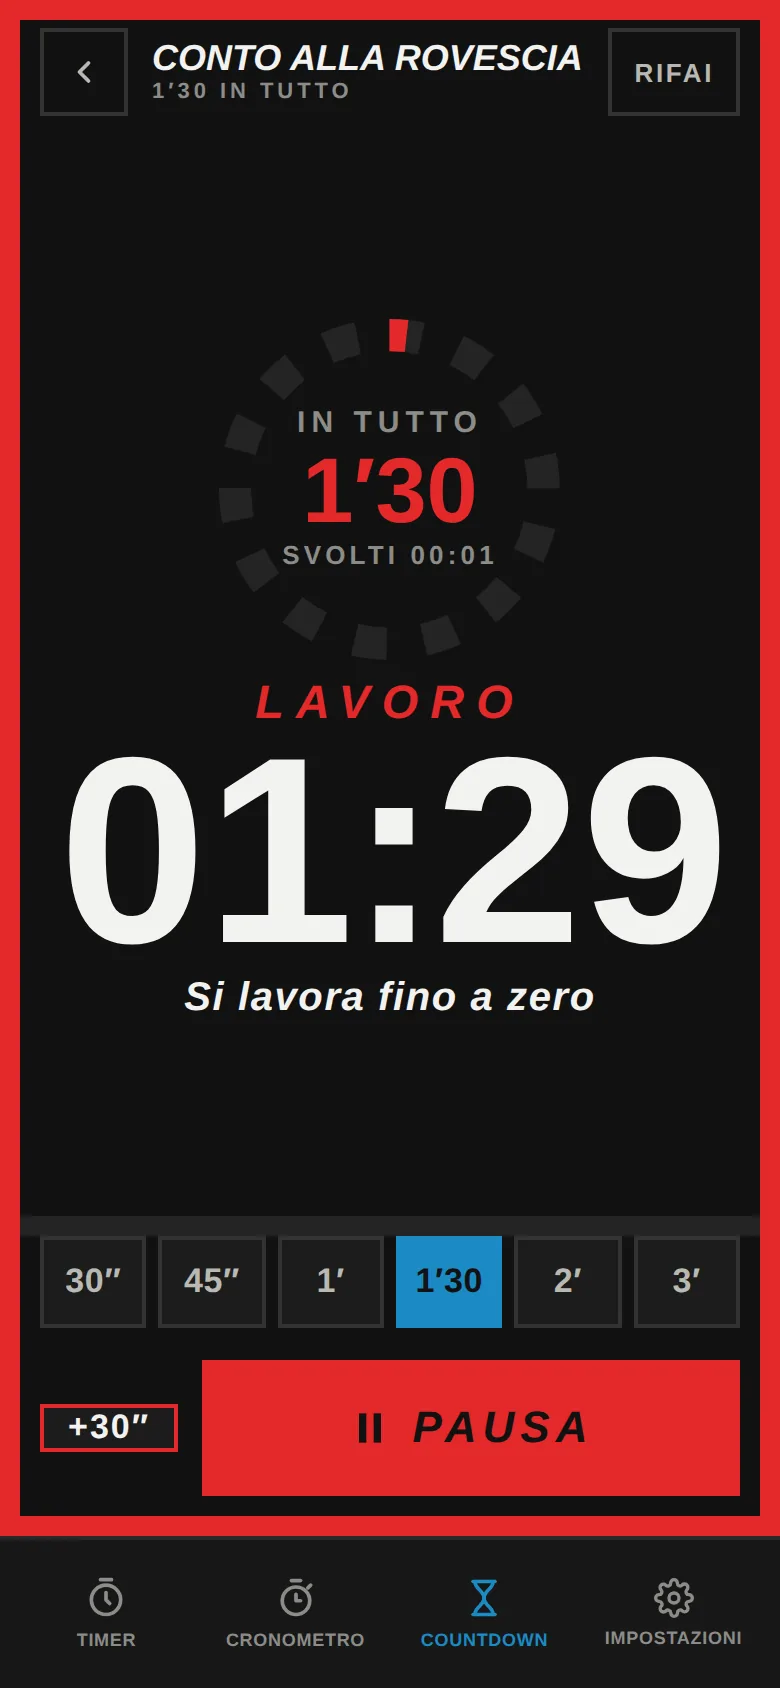
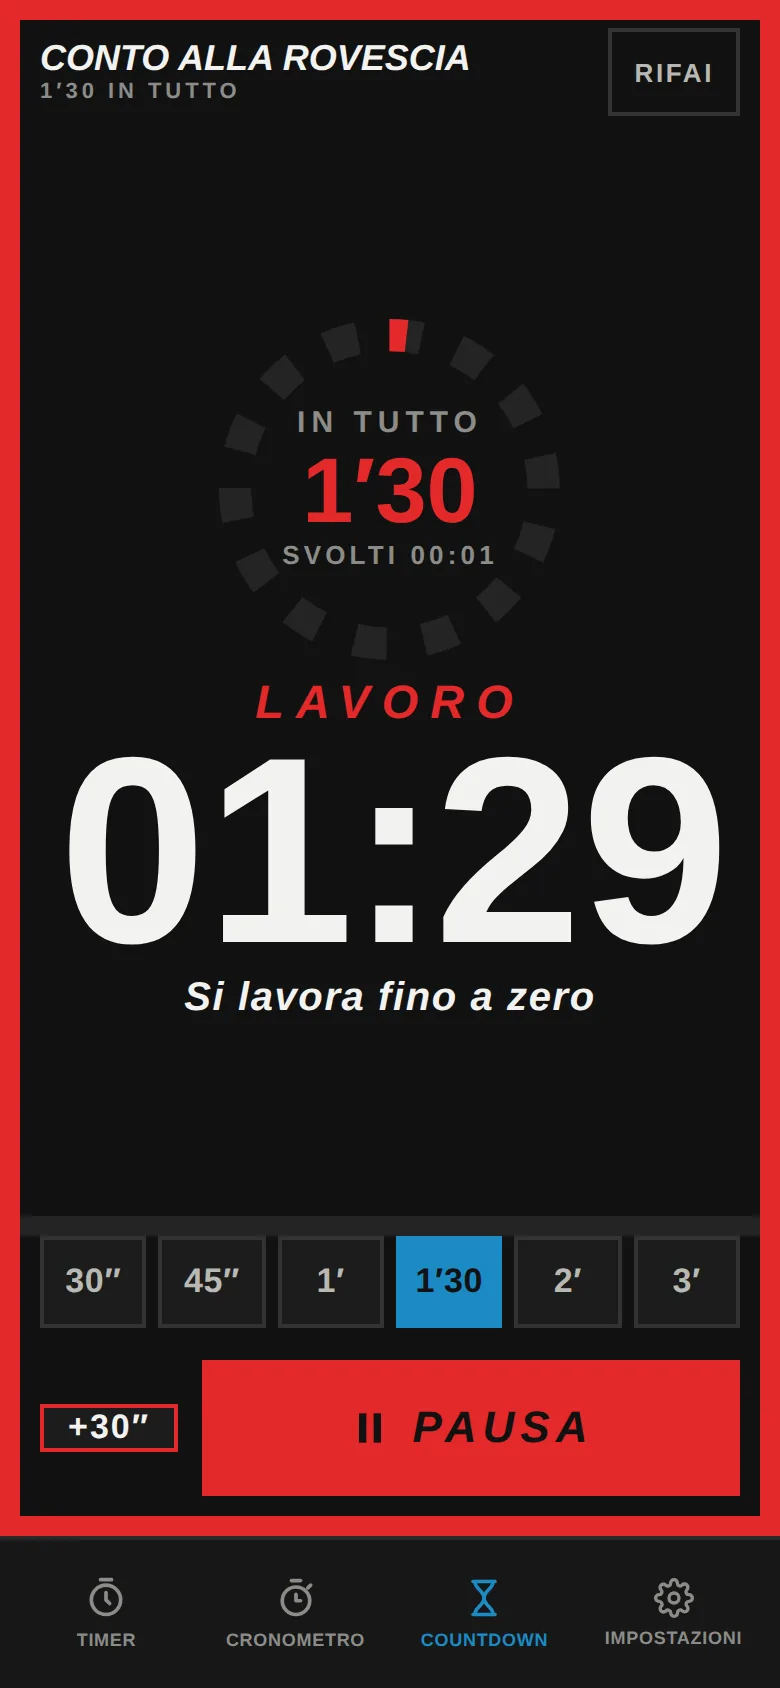
Il countdown si apre già pronto, e Maurizio fa i complimenti allo scadere
**Via la schermata delle durate.** Erano due cose sbagliate insieme. Una
schermata che serve solo a scegliere un numero è un passaggio in più fra te e
lo strumento, e le sei durate stanno già dentro il conto, nella fila sotto le
cifre. E toccarne una faceva partire il tempo lì per lì, che non è mai quello
che si vuole: si sceglie la durata guardando lo schermo, ma il via lo si dà
guardando la sala. Adesso la scheda apre direttamente sul conto, fermo su
PRONTO, scegliere una durata la carica e basta, e a far partire è AVVIA. Vale
anche a conto iniziato: un'altra durata ricarica da capo e rimette in pronto.

Sparita la schermata, sparisce anche la freccia che ci tornava: non c'è più un
posto dove tornare. Con lei se ne vanno le regole delle tessere, e tre classi
che erano già morte da prima.

**Maurizio fa i complimenti.** Quando il conto arriva a zero e la modalità è
accesa, compare con una frase — «Bravi, così si fa», «Questo sì che era un
tempo» — al posto dell'anello e non delle cifre, che restano a dire 00:00. È
lo stesso posto e la stessa misura che occupa quando lo becchi a sbagliare il
conto nel timer degli allenamenti, quindi sotto non si sposta un pixel.
Illustrazione e frase si estraggono una volta sola allo scadere, altrimenti
cambierebbero a ogni battito; con la modalità spenta non compare niente e
l'anello resta.

Verificato in Chromium: il conto si apre su PRONTO a 00:30 con AVVIA, scegliere
[…]

Changed region(s): [[0.0308, 0.0, 0.7385, 0.0616]]

diff --git a/src/components/AlVolo.tsx b/src/components/AlVolo.tsx
@@ -3,8 +3,10 @@ import type { Settings } from '../types'
 import { Cues, speak } from '../lib/audio'
 import { useWakeLock } from '../lib/wakeLock'
 import { pad } from '../lib/format'
-import { Back, Pause, Play } from './Icons'
+import { Pause, Play } from './Icons'
 import { DentroAnello, Digits, Ring } from './Quadrante'
+import { FINALE, a_caso } from '../lib/adesivi'
+import { FINALE_LINES } from '../lib/engine'
 
 /**
  * I due strumenti che non hanno bisogno di un allenamento scritto.
@@ -177,57 +179,28 @@ export function CronometroScreen({ settings }: { settings: Settings }) {
  * ------------------------------------------------------------------ */
 
 /**
- * La scheda: prima le durate, poi il conto.
+ * La scheda apre direttamente sul conto, fermo.
  *
- * Restare nella stessa scheda invece di aprire una schermata sopra è ciò che
- * permette di tornare alle durate senza chiudere niente, che è il gesto che si
- * fa quando la sala chiede un altro mezzo minuto.
+ * Prima c'era una schermata di sole durate, e toccarne una faceva partire il
+ * conto: due cose sbagliate insieme. Una schermata che serve solo a scegliere
+ * un numero è un passaggio in più fra te e lo strumento — le sei durate stanno
+ * già dentro il conto, sotto le cifre — e far partire il tempo mentre si guarda
+ * lo schermo non è mai quello che si vuole: si sceglie la durata, si guarda la
+ * sala, e si dà il via quando la sala è pronta. Quindi scegliere prepara e
+ * basta; a far partire è AVVIA.
  */
 export function CountdownTab({ settings }: { settings: Settings }) {
-  const [scelta, setScelta] = useState<number | null>(null)
-  if (scelta === null) return <ScegliDurata onScegli={setScelta} />
-  return <ContaAllaRovescia key={scelta} secondi={scelta} settings={settings} onIndietro={() => setScelta(null)} />
+  return <ContaAllaRovescia settings={settings} />
 }
 
-function ScegliDurata({ onScegli }: { onScegli: (secondi: number) => void }) {
-  return (
-    <div className="scroll scelta-durate">
-      <p className="pad" style={{ fontSize: 14, lineHeight: 1.45, color: 'var(--dim)', margin: '0 0 2px' }}>
-        Un solo blocco di lavoro, della durata che scegli. Parte al tocco, senza passare dall'editor, e
-        la durata si cambia anche a conto già iniziato.
-      </p>
-      <div className="pad" style={{ paddingTop: 14, paddingBottom: 24 }}>
-        <div className="volo-griglia">
-          {DURATE_AL_VOLO.map((s) => (
-            <button
-              key={s}
-              className="volo-tessera"
-              onClick={() => onScegli(s)}
-              aria-label={`Conto alla rovescia di ${s} secondi`}
-            >
-              <span className="num volo-tessera-n">{etichettaDurata(s)}</span>
-            </button>
-          ))}
-        </div>
-      </div>
-    </div>
-  )
-}
-
-function ContaAllaRovescia({
-  secondi,
-  settings,
-  onIndietro,
-}: {
-  secondi: number
-  settings: Settings
-  onIndietro: () => void
-}) {
-  const [durata, setDurata] = useState(secondi)
-  // Parte subito: chi tocca «1′30» ha già dato il via a voce.
-  const [fine, setFine] = useState<number | null>(() => performance.now() + secondi * 1000)
-  const [restoInPausa, setRestoInPausa] = useState(secondi * 1000)
+function ContaAllaRovescia({ settings }: { settings: Settings }) {
+  const [durata, setDurata] = useState(DURATE_AL_VOLO[0])
+  const [fine, setFine] = useState<number | null>(null)
+  const [restoInPausa, setRestoInPausa] = useState(DURATE_AL_VOLO[0] * 1000)
   const [ora, setOra] = useState(() => performance.now())
+  /* Estratti allo scadere e tenuti da parte: se li si scegliesse al volo dentro
+     il render, illustrazione e frase cambierebbero a ogni battito. */
+  const [complimento, setComplimento] = useState<{ src: string; frase: string } | null>(null)
   const cues = useRef(new Cues())
   const ultimoBip = useRef<number | null>(null)
   const finito = useRef(false)
@@ -255,6 +228,7 @@ function ContaAllaRovescia({
     }
     if (resto <= 0 && !finito.current) {
       finito.current = true
+      setComplimento({ src: a_caso(FINALE), frase: a_caso(FINALE_LINES) })
       cues.current.finish()
       if (settings.voice) speak('Tempo', settings.volume, settings.voiceURI)
       setFine(null)
@@ -264,9 +238,21 @@ function ContaAllaRovescia({
 
   useWakeLock(settings.keepAwake && inCorso)
 
+  /* Scegliere una durata la carica e lascia il conto fermo: il via lo dà AVVIA,
+     quando la sala è pronta e non quando il dito tocca il numero. */
+  const prepara = (da: number) => {
+    finito.current = false
+    ultimoBip.current = null
+    setComplimento(null)
+    setDurata(da)
+    setRestoInPausa(da * 1000)
+    setFine(null)
+  }
+
   const riparti = (da: number) => {
     finito.current = false
     ultimoBip.current = null
+    setComplimento(null)
     setDurata(da)
     setRestoInPausa(da * 1000)
     setFine(performance.now() + da * 1000)
@@ -287,6 +273,7 @@ function ContaAllaRovescia({
   const allunga = () => {
     finito.current = false
     ultimoBip.current = null
+    setComplimento(null)
     setDurata((d) => d + 30)
     if (fine === null) setRestoInPausa((r) => r + 30000)
     else setFine((f) => (f ?? performance.now()) + 30000)
@@ -297,6 +284,10 @@ function ContaAllaRovescia({
      verde, che in quest'app vuol dire finito — è lo stesso verde con cui il
      timer degli allenamenti scrive COMPLETATO. Il cambio di colore allo zero
      resta, ribaltato: da rosso a verde. */
+  /* Caricato e mai fatto partire: non è una pausa, è un timer pronto — e il
+     tasto grande deve dire AVVIA, non RIPRENDI. */
+  const intatto = fine === null && !aZero && restoInPausa === durata * 1000
+
   const tinta = aZero ? 'var(--verde)' : 'var(--rosso)'
   const mostrato = Math.ceil(resto / 1000)
   const avanzamento = durata > 0 ? Math.min(1, svolti / (durata * 1000)) : 0
@@ -304,9 +295,6 @@ function ContaAllaRovescia({
   return (
     <div className="timer" data-attrezzo="true" style={{ ['--state' as string]: tinta }}>
       <div className="row timer-top">
-        <button className="icon-btn" onClick={onIndietro} aria-label="Torna alle durate">
-          <Back />
-        </button>
         <div className="stack grow" style={{ gap: 1, minWidth: 0 }}>
           <span className="ob titolo-timer">CONTO ALLA ROVESCIA</span>
           <span className="sottotitolo-timer" style={{ fontSize: 11, fontWeight: 600, letterSpacing: '0.18em', color: 'var(--dim)' }}>
@@ -321,20 +309,35 @@ function ContaAllaRovescia({
       </div>
 
       <div className="timer-main">
-        <div className="anello">
-          <Ring progress={avanzamento} color={tinta} />
-          <DentroAnello
-            etichetta="IN TUTTO"
-            numero={etichettaDurata(durata)}
-            sotto={`SVOLTI ${minutiSecondi(svolti)}`}
-            colore={tinta}
-          />
-        </div>
+        {/* Allo zero Maurizio si prende il posto dell'anello — non quello delle
+            cifre, che restano il contenuto — e fa i complimenti a chi ha appena
+            finito. È lo stesso posto e la stessa misura che occupa quando lo
+            becchi a sbagliare il conto nel timer degli allenamenti. */}
+        {aZero && complimento && settings.coach !== 'off' ? (
+          <div className="beccato">
+            <img src={complimento.src} alt="" />
+            <span className="beccato-frase">{complimento.frase}</span>
+          </div>
+        ) : (
+          <div className="anello">
+            <Ring progress={avanzamento} color={tinta} />
+            <DentroAnello
+              etichetta="IN TUTTO"
+              numero={etichettaDurata(durata)}
+              sotto={`SVOLTI ${minutiSecondi(svolti)}`}
+              colore={tinta}
+            />
+          </div>
+        )}
 
         <div className="timer-col" style={{ alignItems: 'center', gap: 4 }}>
-          <span className="state-label">{aZero ? 'TEMPO' : inCorso ? 'LAVORO' : 'IN PAUSA'}</span>
+          <span className="state-label">
+            {aZero ? 'TEMPO' : inCorso ? 'LAVORO' : intatto ? 'PRONTO' : 'IN PAUSA'}
+          </span>
           <Digits value={`${pad(Math.floor(mostrato / 60))}:${pad(mostrato % 60)}`} />
-          <span className="exercise">{aZero ? 'Tempo scaduto' : 'Si lavora fino a zero'}</span>
+          <span className="exercise">
+            {aZero ? 'Tempo scaduto' : intatto ? 'Scegli la durata, poi AVVIA' : 'Si lavora fino a zero'}
+          </span>
         </div>
       </div>
 
@@ -346,7 +349,7 @@ function ContaAllaRovescia({
           risponde meglio o peggio del previsto. */}
       <div className="al-volo-scelte">
         {DURATE_AL_VOLO.map((s) => (
-          <button key={s} className="chip" data-on={durata === s} onClick={() => riparti(s)}>
+          <button key={s} className="chip" data-on={durata === s} onClick={() => prepara(s)}>
             {etichettaDurata(s)}
           </button>
         ))}
@@ -358,7 +361,9 @@ function ContaAllaRovescia({
         </button>
         <button className="btn grow tasto-avvia" style={{ background: tinta, color: '#121212' }} onClick={pausaOAvvia}>
           {inCorso ? <Pause size={22} /> : <Play size={22} />}
-          <span style={{ fontSize: 22 }}>{inCorso ? 'PAUSA' : aZero ? 'RIFAI' : 'RIPRENDI'}</span>
+          <span style={{ fontSize: 22 }}>
+            {inCorso ? 'PAUSA' : aZero ? 'RIFAI' : intatto ? 'AVVIA' : 'RIPRENDI'}
+          </span>
         </button>
       </div>
     </div>

diff --git a/public/guida.html b/public/guida.html
@@ -362,7 +362,7 @@
     </p>
     <div class="riga-versione">
       <span>Officine Dello Sport · Collegno</span>
-      <span>ODS Timer 1.1.1</span>
+      <span>ODS Timer 1.2.0</span>
       <span>nalbertini.github.io/Timer-</span>
     </div>
   </header>
@@ -461,7 +461,7 @@
             <tbody>
               <tr><td class="nome-schema">TIMER</td><td>I tuoi allenamenti. Da qui si avvia, si modifica, si duplica, si manda, si elimina.</td></tr>
               <tr><td class="nome-schema">CRONOMETRO</td><td>Conta in salita, con i centesimi e i giri. Per un randori, una navetta, un test.</td></tr>
-              <tr><td class="nome-schema">COUNTDOWN</td><td>Sei durate che partono al tocco: un blocco di lavoro lungo quanto dici.</td></tr>
+              <tr><td class="nome-schema">COUNTDOWN</td><td>Un blocco di lavoro lungo quanto dici: scegli la durata, poi AVVIA.</td></tr>
               <tr><td class="nome-schema">IMPOSTAZIONI</td><td>Maurizio, suoni, voce, schermo, libreria esercizi, copie di sicurezza, storico, versione, e questa guida.</td></tr>
             </tbody>
           </table>
@@ -497,25 +497,27 @@
 
         <h3>Countdown</h3>
         <p>
-          Sei durate — <strong>30″, 45″, 1′, 1′30, 2′, 3′</strong> — che partono al tocco. È
+          La scheda si apre <strong>già sul conto, fermo</strong>: niente schermata di mezzo da attraversare. Le sei
+          durate — <strong>30″, 45″, 1′, 1′30, 2′, 3′</strong> — sono la fila sotto le cifre. È
           <strong>un solo blocco di lavoro</strong> della durata che scegli: non un recupero, ma il pezzo di lezione
           che dura tanto quanto hai detto. La risposta a «novanta secondi di plank», che prima costringeva a
           creare e salvare un timer apposta.
         </p>
         <ul>
-          <li>La freccia in alto a sinistra torna alle durate senza chiudere niente: <strong>si cambia idea a conto già iniziato</strong>, perché la sala risponde meglio o peggio del previsto.</li>
-          <li>C'è il <span class="tasto">+30″</span> del timer grande, e <span class="tasto">RIFAI</span> per ripartire da capo.</li>
+          <li><strong>Scegliere una durata non fa partire niente</strong>: la carica e basta, e il conto resta fermo su PRONTO. A dare il via è <span class="tasto">AVVIA</span>, quando guardi la sala e non lo schermo. Vale anche a conto già iniziato: toccare un'altra durata ricarica da capo e rimette in pronto.</li>
+          <li>C'è il <span class="tasto">+30″</span> del timer grande, e <span class="tasto">RIFAI</span> in alto a destra per ricominciare la stessa durata.</li>
           <li>Mentre gira la cornice è <strong>rossa</strong>, come il lavoro del timer degli allenamenti, e la scritta dice LAVORO. Allo zero passa al <strong>verde</strong> — il verde con cui l'app dice «finito» — con la scritta TEMPO e il segnale di fine: si vede da tutta la sala anche senza sentire niente.</li>
+          <li>Allo zero, se la <strong>modalità Maurizio</strong> è accesa, compare lui con una frase di complimenti: <em>«Bravi, così si fa»</em>, <em>«Questo sì che era un tempo»</em>. Prende il posto dell'anello e non quello delle cifre, che restano lì a dire 00:00. Con la modalità spenta non compare niente.</li>
         </ul>
 
         <div class="scatti">
     <figure>
-      <img src="guida/countdown-durate.webp" alt="La scheda COUNTDOWN con le sei durate" width="820" height="1688" loading="lazy">
-      <figcaption>Sei durate da premere senza guardare.</figcaption>
+      <img src="guida/countdown-pronto.webp" alt="La scheda COUNTDOWN appena aperta: conto fermo su PRONTO" width="820" height="1688" loading="lazy">
+      <figcaption>Appena aperta: il conto è già lì, fermo su PRONTO, con le sei durate sotto le cifre.</figcaption>
     </figure>
     <figure>
       <img src="guida/countdown.webp" alt="Conto alla rovescia in corso, cornice rossa, stato LAVORO" width="820" height="1688" loading="lazy">
-      <figcaption>Il conto in corsa: cornice rossa perché è lavoro, la freccia in alto torna alle durate, RIFAI ricomincia.</figcaption>
+      <figcaption>In corsa: cornice rossa perché è lavoro, e RIFAI per ricominciare.</figcaption>
     </figure>
         </div>
 
@@ -894,7 +896,8 @@
 
         <p>
           <strong>Le illustrazioni</strong> sono diciotto, tutte di Maurizio. Al centro con la frase quando perde il
-          conto o si inventa un giro, una a fine allenamento, e piccole in un angolo sugli stati fermi —
+          conto o si inventa un giro, una a fine allenamento, una con i complimenti quando scade il conto alla
+          rovescia, e piccole in un angolo sugli stati fermi —
           preparazione, recupero, riposo, defaticamento. Durante il lavoro nessuna, di proposito: sotto
           sforzo lo schermo deve dire solo il tempo.
         </p>

diff --git a/src/styles.css b/src/styles.css
@@ -442,35 +442,6 @@ input, textarea { font: inherit; color: inherit; }
 
 /* ---------- gli attrezzi al volo: cronometro e conto alla rovescia ---------- */
 
-/* Le sei durate come tessere: due righe da tre, grandi abbastanza da premerle
-   senza guardare mentre si parla alla sala. */
-.volo-griglia { display: grid; grid-template-columns: repeat(3, minmax(0, 1fr)); gap: 10px; }
-.volo-tessera {
-  min-height: 84px;
-  display: flex; align-items: center; justify-content: center;
-  border: 2px solid var(--line); background: var(--surface);
-  transition: border-color 120ms, background 120ms;
-}
-.volo-tessera:hover { border-color: var(--verde); }
-.volo-tessera:active { background: var(--surface-2); }
-.volo-tessera-n {
-  font-size: 30px; font-weight: 700; letter-spacing: 0.01em; color: var(--text);
-}
-/* Senza l'intestazione dell'app sopra, la scelta delle durate si tiene da sé
-   lo spazio della barra di stato. */
-.scelta-durate { padding-top: calc(var(--safe-t) + 18px); }
-.scelta-durate .volo-griglia { row-gap: 12px; }
-.volo-crono { gap: 14px; padding: 0 14px; min-height: 72px; text-align: left; color: var(--text); }
-.volo-crono:hover { border-color: var(--blu); }
-@media (min-width: 560px) {
-  .volo-griglia { grid-template-columns: repeat(6, minmax(0, 1fr)); }
-}
-
-.al-volo { gap: 12px; padding: 12px 14px 14px; }
-.al-volo-crono {
-  min-height: 40px; padding: 0 14px;
-  font-family: var(--cond); font-size: 15px; font-weight: 700; letter-spacing: 0.1em;
-}
 /* Sei durate in una griglia che si divide lo spazio invece di scorrere: sono
    sei tasti che si premono senza guardare, e uno fuori schermo non esiste. */
 .al-volo-scelte {
@@ -498,7 +469,10 @@ input, textarea { font: inherit; color: inherit; }
   .timer[data-attrezzo='true'] .exercise { display: none; }
 }
 @media (max-height: 600px) {
-  .timer[data-attrezzo='true'] .anello { display: none; }
+  /* Anche i complimenti di Maurizio: occupano il posto dell'anello, quindi
+     dove l'anello non ci sta non ci stanno nemmeno loro. */
+  .timer[data-attrezzo='true'] .anello,
+  .timer[data-attrezzo='true'] .beccato { display: none; }
 }
 
 /* Telefono girato di lato: trecentosessanta pixel in tutto, un centinaio dei

diff --git a/src/lib/engine.ts b/src/lib/engine.ts
@@ -298,6 +298,20 @@ export const EXTRA_LINES = [
   'Dai, l’ultimo giro. Questo sì',
 ]
 
+/**
+ * I complimenti di fine tempo: quando un conto arriva a zero e la modalità è
+ * accesa, Maurizio compare con una di queste. Sono corte di proposito — vanno
+ * lette in un'occhiata da chi ha appena finito e sta ancora respirando.
+ */
+export const FINALE_LINES = [
+  'Bravi, così si fa',
+  'Ottimo lavoro',
+  'Visto? Ce l’avete fatta',
+  'Questo sì che era un tempo',
+  'Grandi, tutti quanti',
+  'E anche questo è andato',
+]
+
 /** L'etichetta di stato del giro in più, al posto di LAVORO. */
 export const EXTRA_LABEL = 'ANCORA UNO'
 
